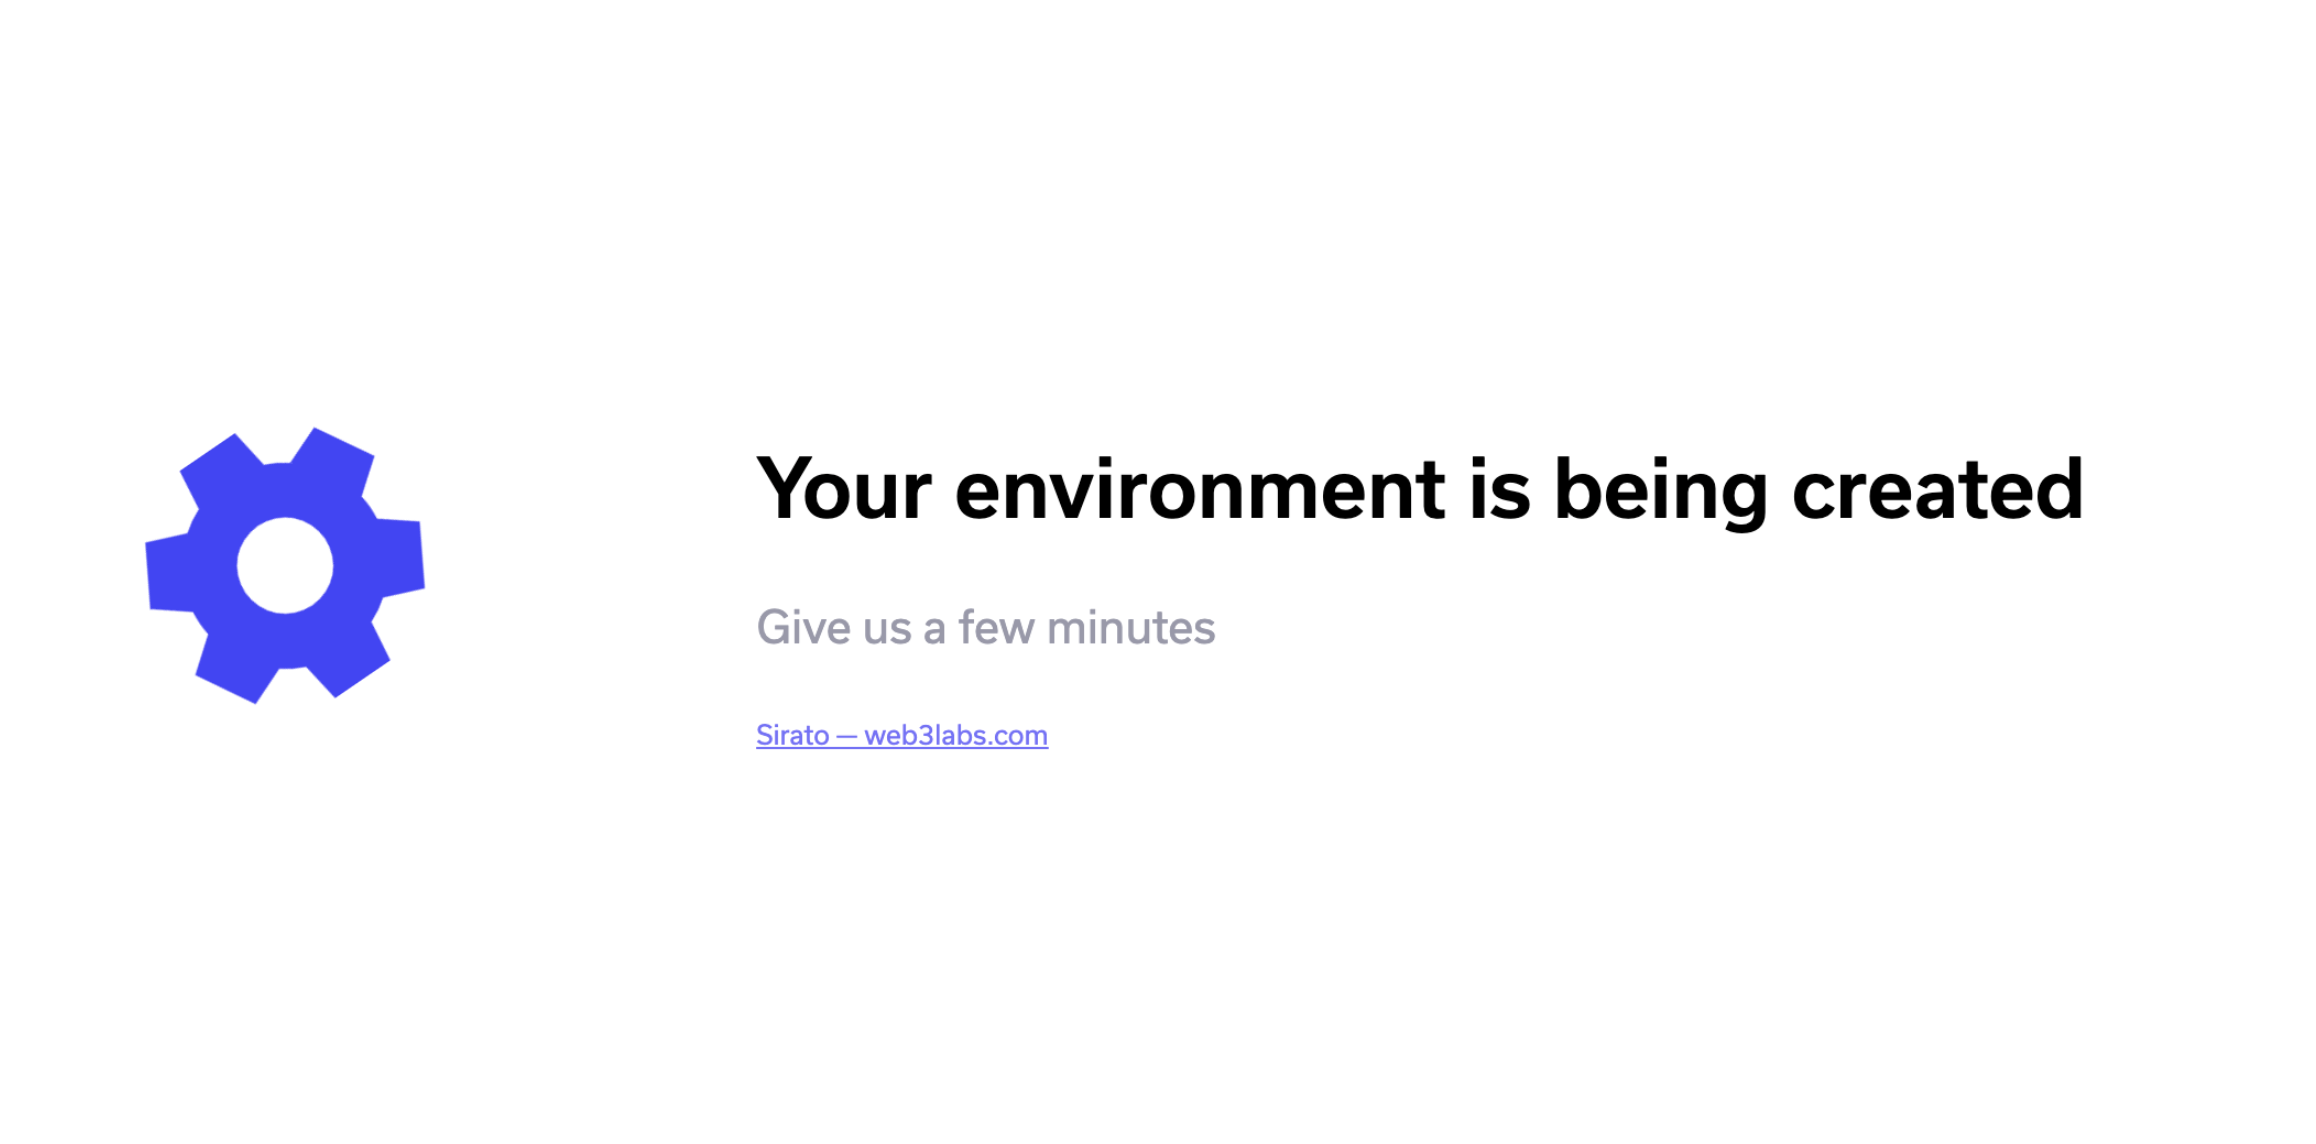
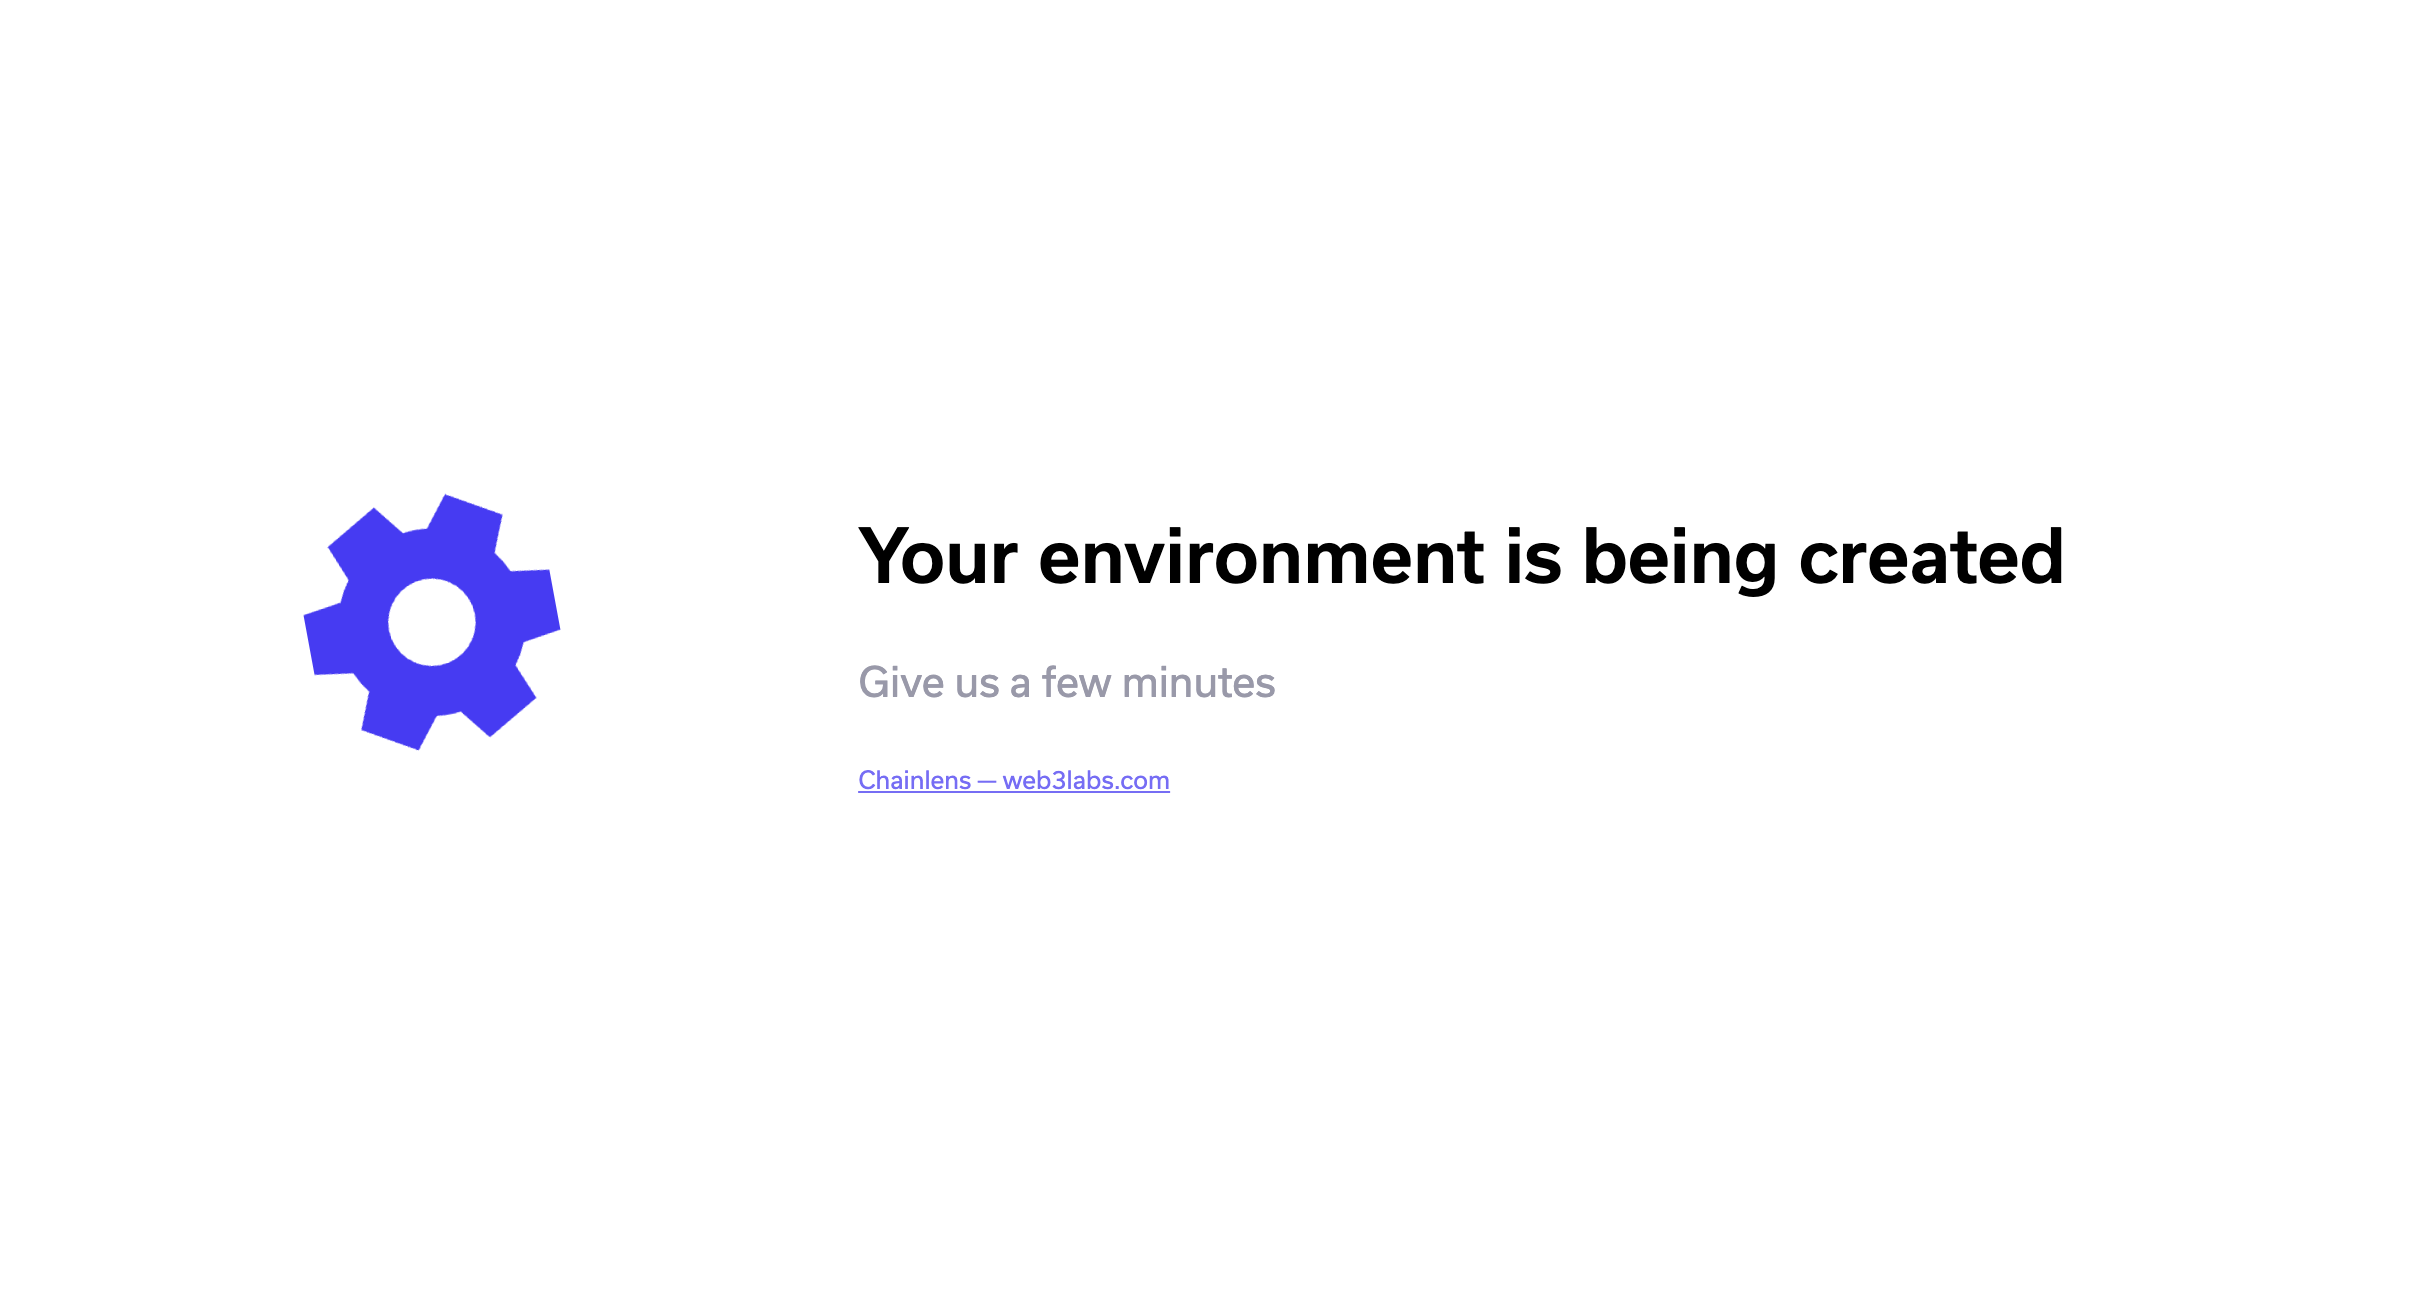
fixed directory names

Changed region(s): [[0.3109, 0.3977, 0.9016, 0.4895], [0.0622, 0.3671, 0.2487, 0.6119], [0.3109, 0.5201, 0.5285, 0.6731]]

diff --git a/docs/private-networks/how-to/monitor/chainlens.md b/docs/private-networks/how-to/monitor/chainlens.md
@@ -40,7 +40,7 @@ Quickstart test network.
 From the `docker-compose` directory, run the following command:
 
 ```bash
-NODE_ENDPOINT=http://rpcnode:8545 docker-compose -f docker-compose.yml -f sirato-extensions/docker-compose-quorum-dev-quickstart.yml up
+NODE_ENDPOINT=http://rpcnode:8545 docker-compose -f docker-compose.yml -f chainlens-extensions/docker-compose-quorum-dev-quickstart.yml up
 ```
 
 This command does two things:
@@ -50,7 +50,7 @@ This command does two things:
 
 The first `docker-compose.yml` file in the command contains all the services required for Chainlens.
 
-The second file named `docker-compose-besu` contains the network settings required to start
+The second file named `docker-compose-quorum-dev-quickstart` contains the network settings required to start
 Chainlens on the same network as the Besu development node.
 
 Next, open `http://localhost/` on your browser.
@@ -76,7 +76,7 @@ This page is disabled by default, and is only visible if you set `DISPLAY_NETWOR
 the following command:
 
 ```bash
-NODE_ENDPOINT=http://member1besu:8545 DISPLAY_NETWORK_TAB=enabled docker-compose -f docker-compose.yml -f sirato-extensions/docker-compose-quorum-dev-quickstart.yml up
+NODE_ENDPOINT=http://member1besu:8545 DISPLAY_NETWORK_TAB=enabled docker-compose -f docker-compose.yml -f chainlens-extensions/docker-compose-quorum-dev-quickstart.yml up
 ```
 
 The **Blocks** page shows a real-time view of the finalized blocks.

diff --git a/docs/private-networks/tutorials/quickstart.md b/docs/private-networks/tutorials/quickstart.md
@@ -126,7 +126,7 @@ From the `docker-compose` directory, run the following command:
 
 ```bash
 cd docker-compose
-NODE_ENDPOINT=member1besu PORT=26000 docker-compose -f docker-compose.yml -f sirato-extensions/docker-compose-quorum-dev-quickstart.yml up
+NODE_ENDPOINT=member1besu PORT=26000 docker-compose -f docker-compose.yml -f chainlens-extensions/docker-compose-quorum-dev-quickstart.yml up
 ```
 
 Open `http://localhost/` on your browser.
